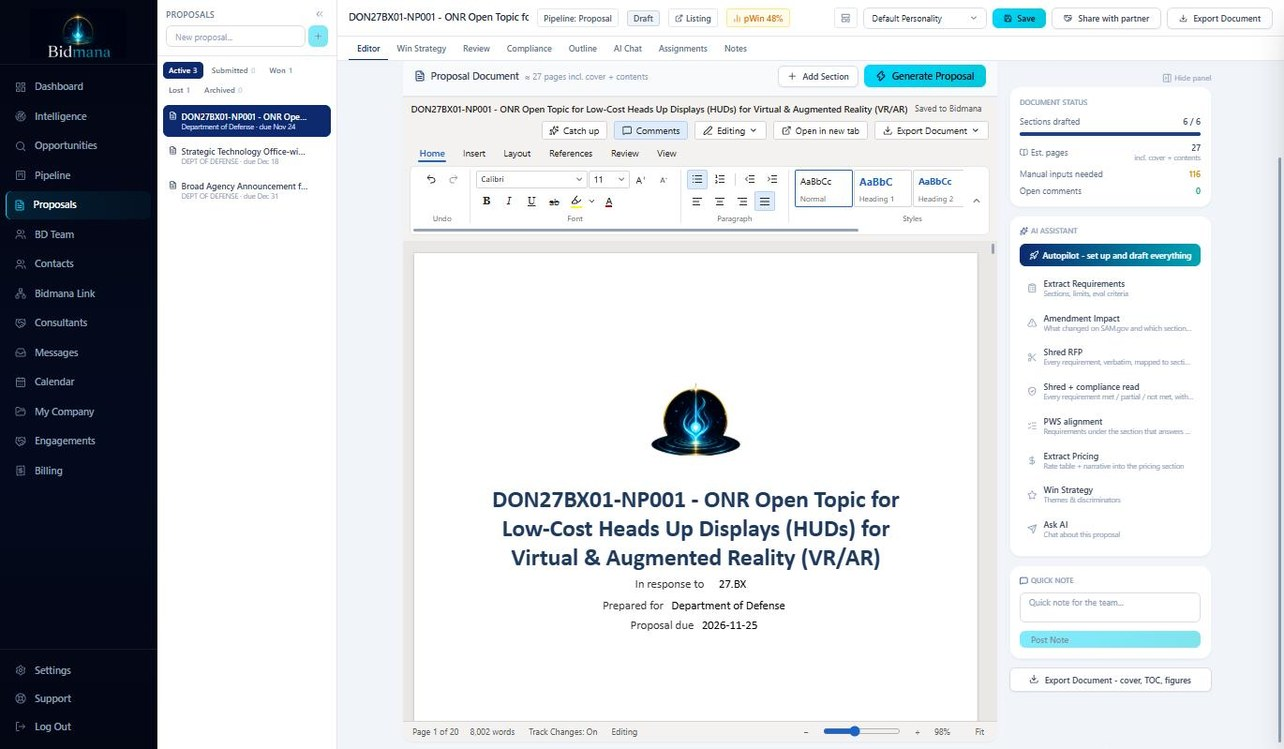
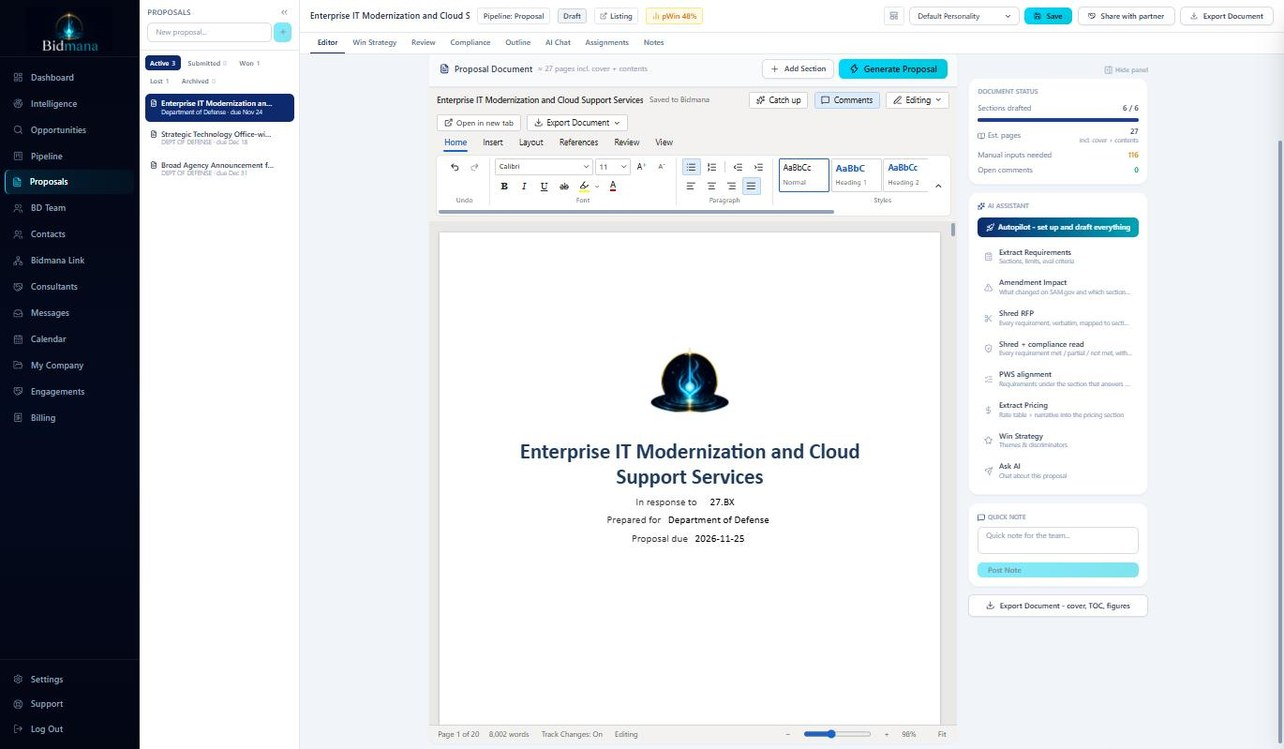
Showcase: proposal screenshot with a placeholder proposal title

diff --git a/index.html b/index.html
@@ -103,7 +103,7 @@
             <img src="assets/showcase/pipeline.jpg" alt="The pipeline board: pursuits moving from Tracking through Qualifying and Pursuing to Proposal, each with its files, win probability and due date" loading="lazy" width="1284" height="749" />
           </figure>
           <figure class="shot-screen" id="shot-proposal" role="tabpanel" aria-labelledby="tab-proposal" hidden>
-            <img src="assets/showcase/proposal.jpg?v=20261116c" alt="The proposal workspace: the Word-style editor open on a proposal's cover page, with document status and the AI assistant beside it" loading="lazy" width="1284" height="749" />
+            <img src="assets/showcase/proposal.jpg?v=20261116d" alt="The proposal workspace: the Word-style editor open on a proposal's cover page, with document status and the AI assistant beside it" loading="lazy" width="1284" height="749" />
           </figure>
         </div>
       </div>
